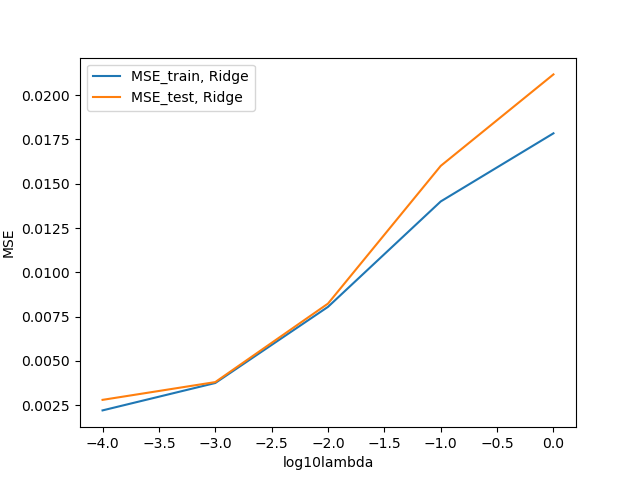
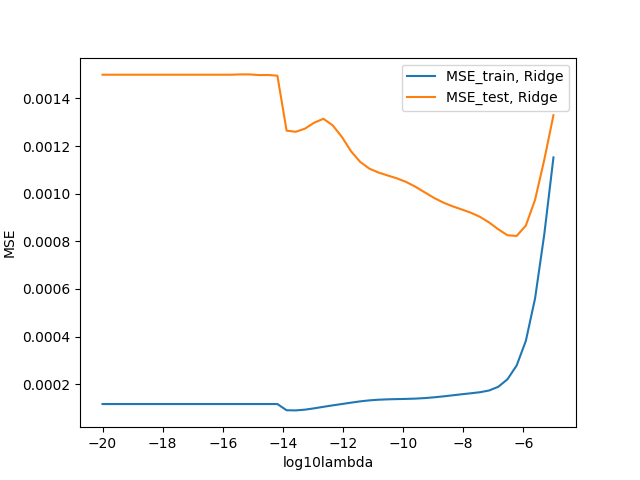
Added ridge.py

diff --git a/Project_1/Code/ridge.py b/Project_1/Code/ridge.py
@@ -21,14 +21,15 @@ def FrankeFunction(x: float, y: float) -> float:
     term4 = -0.2*np.exp(-(9*x-4)**2 - (9*y-7)**2)
     return term1 + term2 + term3 + term4
 
-def OLSfit(x: np.ndarray, y: np.ndarray, z: np.ndarray, deg: int) -> tuple:
-    """ Calculates a model fitting our data using ordinary least squares.
+def ridgefit(x: np.ndarray, y: np.ndarray, z: np.ndarray, deg: int, lambda_val: float) -> tuple:
+    """ Calculates a model fitting our data using Ridge regression.
     
     ## Parameters
         x (ndarray): x-values of data points.
         y (ndarray): y-values of data points.
         z (ndarray): z-values of data points.
         deg (int): Degree of polynomial fit.
+        lambda_val (float): The lambda-value in Ridge regression.
     
     ## Returns
         MSE_train (float): Mean square error of model on training data.
@@ -54,22 +55,23 @@ def OLSfit(x: np.ndarray, y: np.ndarray, z: np.ndarray, deg: int) -> tuple:
     X = X - X.mean()
     z = pd.DataFrame(z)
     z = z - z.mean()
-
+    
     ## Split X and z into train- and test data
-    X_train, X_test, z_train, z_test = train_test_split(X, z, test_size=0.2)
+    X_train, X_test, z_train, z_test = sklearn.model_selection.train_test_split(X, z, test_size= 0.2, random_state=0)
 
     ## Compute coefficients beta
-    beta = np.linalg.pinv(X_train.T @ X_train) @ X_train.T @ z_train
+    XTX_train = X_train.T @ X_train
+    beta = np.linalg.pinv(np.add(XTX_train, lambda_val*np.identity(XTX_train.shape[0]))) @ X_train.T @ z_train
     
     ## Compute z_tilde from train data and z_predict from test_data
-    z_tilde = X_train @ beta
-    z_predict = X_test @ beta
+    ztilde = X_train @ beta
+    zpredict = X_test @ beta
 
     ## Compute mean squared error (MSE) and R2-value from the model on train- and test data
-    MSE_train = mean_squared_error(z_train,z_tilde)
-    MSE_test = mean_squared_error(z_test,z_predict)
-    R2_train = r2_score(z_train,z_tilde)
-    R2_test = r2_score(z_test,z_predict)
+    MSE_train = sklearn.metrics.mean_squared_error(z_train,ztilde)
+    MSE_test = sklearn.metrics.mean_squared_error(z_test,zpredict)
+    R2_train = sklearn.metrics.r2_score(z_train,ztilde)
+    R2_test = sklearn.metrics.r2_score(z_test,zpredict)
     return MSE_train, MSE_test, R2_train, R2_test, beta
 
 
@@ -81,30 +83,33 @@ z = FrankeFunction(x, y)
 z_with_noise = z# + np.random.normal(0, 1, z.shape)
 
 ## Initiate arrays for the values that we want to compute
-deg_num = 30
-degs = np.linspace(1, deg_num, deg_num, dtype=int)
-MSE_train_array = np.zeros(deg_num)
-MSE_test_array = np.zeros(deg_num)
-R2_train_array = np.zeros(deg_num)
-R2_test_array = np.zeros(deg_num)
-beta_list = [0]*deg_num
+deg = 5 # Polynomial degree
+lambda_exp_start = -20
+lambda_exp_stop = -5
+lambda_num = 50
 
-## Compute values from OLS
-for i in range(deg_num):
-    MSE_train_array[i], MSE_test_array[i], R2_train_array[i], R2_test_array[i], beta_list[i] = OLSfit(x,y,z,degs[i])
+lambdas = np.logspace(lambda_exp_start, lambda_exp_stop, num=lambda_num)
+MSE_train_array = np.zeros(lambda_num)
+MSE_test_array = np.zeros(lambda_num)
+R2_train_array = np.zeros(lambda_num)
+R2_test_array = np.zeros(lambda_num)
+beta_list = [0]*lambda_num
+
+for i in range(lambda_num):
+    MSE_train_array[i], MSE_test_array[i], R2_train_array[i], R2_test_array[i], beta_list[i] = ridgefit(x,y,z, deg,lambdas[i])
 
 plt.figure()
-plt.plot(degs,MSE_train_array,label="MSE_train")
-plt.plot(degs,MSE_test_array,label="MSE_test")
-plt.xlabel("degree")
+plt.plot(np.log10(lambdas),MSE_train_array,label="MSE_train, Ridge")
+plt.plot(np.log10(lambdas),MSE_test_array,label="MSE_test, Ridge")
+plt.xlabel("log10lambda")
 plt.ylabel("MSE")
 plt.legend()
-plt.savefig("MSEOLS.png")
+plt.savefig("MSERidge.png")
 
 plt.figure()
-plt.plot(degs,R2_train_array,label="R2_train")
-plt.plot(degs,R2_test_array,label="R2_test")
-plt.xlabel("degree")
+plt.plot(np.log10(lambdas),R2_train_array,label="R2_train, Ridge")
+plt.plot(np.log10(lambdas),R2_test_array,label="R2_test, Ridge")
+plt.xlabel("log10lambda")
 plt.ylabel("R2-score")
 plt.legend()
-plt.savefig("R2OLS.png")
+plt.savefig("R2Ridge.png")
